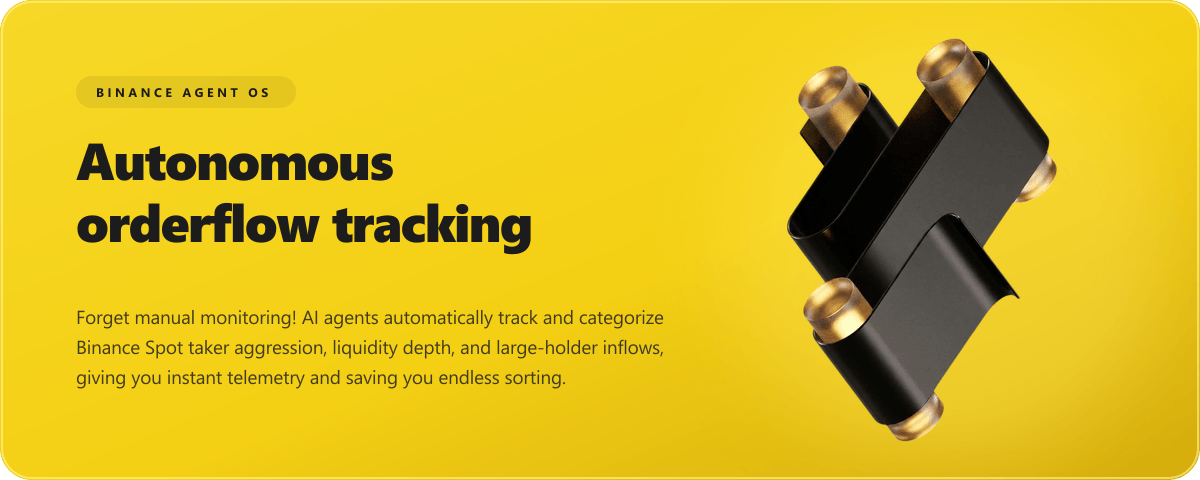
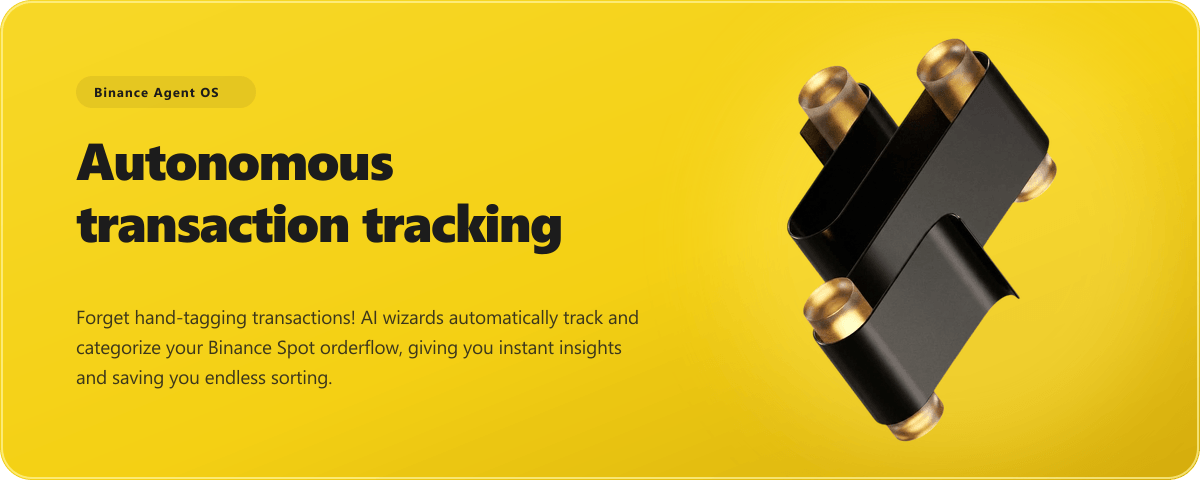
style: unify all 4 README cards with vibrant Netro yellow and natural casing

diff --git a/scripts/generate_banners.js b/scripts/generate_banners.js
@@ -1,46 +1,50 @@
 const sharp = require('sharp');
 const fs = require('fs');
-const path = require('path');
 
 const width = 1200;
 const height = 480;
 
+// Shared Yellow Palette from Card 1
+const yellowDefs = `
+  <defs>
+    <linearGradient id="bgYellow" x1="0%" y1="0%" x2="100%" y2="100%">
+      <stop offset="0%" stop-color="#F7D828" />
+      <stop offset="55%" stop-color="#F4D014" />
+      <stop offset="100%" stop-color="#D4AC0D" />
+    </linearGradient>
+    <filter id="softShadow" x="-10%" y="-10%" width="130%" height="130%">
+      <feDropShadow dx="0" dy="16" stdDeviation="24" flood-color="#000000" flood-opacity="0.18" />
+    </filter>
+  </defs>
+`;
+
 async function generateCard1() {
   const svg = `
   <svg width="${width}" height="${height}" viewBox="0 0 ${width} ${height}" xmlns="http://www.w3.org/2000/svg">
-    <defs>
-      <linearGradient id="bg1" x1="0%" y1="0%" x2="100%" y2="100%">
-        <stop offset="0%" stop-color="#F7D828" />
-        <stop offset="55%" stop-color="#F4D014" />
-        <stop offset="100%" stop-color="#D4AC0D" />
-      </linearGradient>
-      <filter id="softShadow" x="-10%" y="-10%" width="130%" height="130%">
-        <feDropShadow dx="0" dy="16" stdDeviation="24" flood-color="#000000" flood-opacity="0.18" />
-      </filter>
-    </defs>
+    ${yellowDefs}
     
     <!-- Background Card -->
-    <rect width="${width}" height="${height}" rx="32" fill="url(#bg1)" />
-    <rect width="${width - 4}" height="${height - 4}" x="2" y="2" rx="30" fill="none" stroke="#FFF59D" stroke-width="2" stroke-opacity="0.6" />
+    <rect width="${width}" height="${height}" rx="32" fill="url(#bgYellow)" />
+    <rect width="${width - 4}" height="${height - 4}" x="2" y="2" rx="30" fill="none" stroke="#FFF59D" stroke-width="2" stroke-opacity="0.7" />
     
-    <!-- Ambient subtle circles -->
-    <circle cx="950" cy="240" r="220" fill="#FFE552" opacity="0.4" filter="blur(40px)" />
+    <!-- Ambient subtle circle -->
+    <circle cx="950" cy="240" r="220" fill="#FFE552" opacity="0.45" filter="blur(40px)" />
     
-    <!-- Tag -->
-    <rect x="76" y="76" width="220" height="32" rx="16" fill="#1C1C1C" fill-opacity="0.08" />
-    <text x="96" y="97" font-family="-apple-system, BlinkMacSystemFont, 'Segoe UI', Roboto, sans-serif" font-size="12.5" font-weight="800" fill="#1C1C1C" letter-spacing="3.5">BINANCE AGENT OS</text>
+    <!-- Tag (Normal capitalization, NO all-caps) -->
+    <rect x="76" y="76" width="180" height="32" rx="16" fill="#1C1C1C" fill-opacity="0.08" />
+    <text x="94" y="97" font-family="-apple-system, BlinkMacSystemFont, 'Segoe UI', Roboto, sans-serif" font-size="13" font-weight="700" fill="#1C1C1C" letter-spacing="1">Binance Agent OS</text>
     
     <!-- Heading -->
     <text x="76" y="180" font-family="-apple-system, BlinkMacSystemFont, 'Segoe UI', Roboto, sans-serif" font-size="52" font-weight="900" fill="#1C1C1C" letter-spacing="-1.5">
       <tspan x="76" dy="0">Autonomous</tspan>
-      <tspan x="76" dy="62">orderflow tracking</tspan>
+      <tspan x="76" dy="62">transaction tracking</tspan>
     </text>
     
     <!-- Subtitle -->
-    <text x="76" y="324" font-family="-apple-system, BlinkMacSystemFont, 'Segoe UI', Roboto, sans-serif" font-size="19" font-weight="500" fill="#1C1C1C" fill-opacity="0.82" letter-spacing="-0.2">
-      <tspan x="76" dy="0">Forget manual monitoring! AI agents automatically track and categorize</tspan>
-      <tspan x="76" dy="30">Binance Spot taker aggression, liquidity depth, and large-holder inflows,</tspan>
-      <tspan x="76" dy="30">giving you instant telemetry and saving you endless sorting.</tspan>
+    <text x="76" y="324" font-family="-apple-system, BlinkMacSystemFont, 'Segoe UI', Roboto, sans-serif" font-size="19" font-weight="500" fill="#1C1C1C" fill-opacity="0.84" letter-spacing="-0.2">
+      <tspan x="76" dy="0">Forget hand-tagging transactions! AI wizards automatically track and</tspan>
+      <tspan x="76" dy="30">categorize your Binance Spot orderflow, giving you instant insights</tspan>
+      <tspan x="76" dy="30">and saving you endless sorting.</tspan>
     </text>
   </svg>
   `;
@@ -66,38 +70,30 @@ async function generateCard1() {
 async function generateCard2() {
   const svg = `
   <svg width="${width}" height="${height}" viewBox="0 0 ${width} ${height}" xmlns="http://www.w3.org/2000/svg">
-    <defs>
-      <linearGradient id="bg2" x1="0%" y1="0%" x2="100%" y2="100%">
-        <stop offset="0%" stop-color="#141414" />
-        <stop offset="50%" stop-color="#0A0A0A" />
-        <stop offset="100%" stop-color="#000000" />
-      </linearGradient>
-      <radialGradient id="goldGlow" cx="20%" cy="50%" r="45%">
-        <stop offset="0%" stop-color="#F4D014" stop-opacity="0.18" />
-        <stop offset="100%" stop-color="#000000" stop-opacity="0" />
-      </radialGradient>
-    </defs>
+    ${yellowDefs}
     
     <!-- Background Card -->
-    <rect width="${width}" height="${height}" rx="32" fill="url(#bg2)" />
-    <rect width="${width}" height="${height}" rx="32" fill="url(#goldGlow)" />
-    <rect width="${width - 4}" height="${height - 4}" x="2" y="2" rx="30" fill="none" stroke="#F4D014" stroke-width="1.5" stroke-opacity="0.3" />
+    <rect width="${width}" height="${height}" rx="32" fill="url(#bgYellow)" />
+    <rect width="${width - 4}" height="${height - 4}" x="2" y="2" rx="30" fill="none" stroke="#FFF59D" stroke-width="2" stroke-opacity="0.7" />
     
-    <!-- Tag -->
-    <rect x="530" y="76" width="220" height="32" rx="16" fill="#F4D014" fill-opacity="0.15" />
-    <text x="548" y="97" font-family="-apple-system, BlinkMacSystemFont, 'Segoe UI', Roboto, sans-serif" font-size="12.5" font-weight="800" fill="#F4D014" letter-spacing="3.5">BEHAVIORAL SCORING</text>
+    <!-- Ambient subtle circle on left -->
+    <circle cx="260" cy="240" r="220" fill="#FFE552" opacity="0.45" filter="blur(40px)" />
+    
+    <!-- Tag (Normal capitalization, NO all-caps) -->
+    <rect x="520" y="76" width="165" height="32" rx="16" fill="#1C1C1C" fill-opacity="0.08" />
+    <text x="538" y="97" font-family="-apple-system, BlinkMacSystemFont, 'Segoe UI', Roboto, sans-serif" font-size="13" font-weight="700" fill="#1C1C1C" letter-spacing="1">Categorization</text>
     
     <!-- Heading -->
-    <text x="530" y="180" font-family="-apple-system, BlinkMacSystemFont, 'Segoe UI', Roboto, sans-serif" font-size="52" font-weight="900" fill="#FFFFFF" letter-spacing="-1.5">
-      <tspan x="530" dy="0">Deterministic</tspan>
-      <tspan x="530" dy="62">asset score creation</tspan>
+    <text x="520" y="180" font-family="-apple-system, BlinkMacSystemFont, 'Segoe UI', Roboto, sans-serif" font-size="52" font-weight="900" fill="#1C1C1C" letter-spacing="-1.5">
+      <tspan x="520" dy="0">Personalized</tspan>
+      <tspan x="520" dy="62">budget creation</tspan>
     </text>
     
     <!-- Subtitle -->
-    <text x="530" y="324" font-family="-apple-system, BlinkMacSystemFont, 'Segoe UI', Roboto, sans-serif" font-size="19" font-weight="400" fill="#E5E7EB" fill-opacity="0.80" letter-spacing="-0.2">
-      <tspan x="530" dy="0">Ditch generic indicators! We synthesize institutional telemetry based</tspan>
-      <tspan x="530" dy="30">on 9 weighted factors: momentum divergence, wallet holding periods,</tspan>
-      <tspan x="530" dy="30">and execution stress so you stay ahead with 0% emotional bias.</tspan>
+    <text x="520" y="324" font-family="-apple-system, BlinkMacSystemFont, 'Segoe UI', Roboto, sans-serif" font-size="19" font-weight="500" fill="#1C1C1C" fill-opacity="0.84" letter-spacing="-0.2">
+      <tspan x="520" dy="0">Ditch generic budgets! We craft personalized plans based on</tspan>
+      <tspan x="520" dy="30">your portfolio income, goals, and holding patterns, so you can</tspan>
+      <tspan x="520" dy="30">stay on track without feeling restricted.</tspan>
     </text>
   </svg>
   `;
@@ -123,40 +119,30 @@ async function generateCard2() {
 async function generateCard3() {
   const svg = `
   <svg width="${width}" height="${height}" viewBox="0 0 ${width} ${height}" xmlns="http://www.w3.org/2000/svg">
-    <defs>
-      <linearGradient id="bg3" x1="0%" y1="0%" x2="100%" y2="100%">
-        <stop offset="0%" stop-color="#18170D" />
-        <stop offset="60%" stop-color="#0E0D05" />
-        <stop offset="100%" stop-color="#050502" />
-      </linearGradient>
-      <radialGradient id="discGlow" cx="80%" cy="50%" r="40%">
-        <stop offset="0%" stop-color="#F4D014" stop-opacity="0.14" />
-        <stop offset="100%" stop-color="#000000" stop-opacity="0" />
-      </radialGradient>
-    </defs>
+    ${yellowDefs}
     
     <!-- Background Card -->
-    <rect width="${width}" height="${height}" rx="32" fill="url(#bg3)" />
-    <rect width="${width}" height="${height}" rx="32" fill="url(#discGlow)" />
-    <rect width="${width - 4}" height="${height - 4}" x="2" y="2" rx="30" fill="none" stroke="#F4D014" stroke-width="1.5" stroke-opacity="0.25" />
+    <rect width="${width}" height="${height}" rx="32" fill="url(#bgYellow)" />
+    <rect width="${width - 4}" height="${height - 4}" x="2" y="2" rx="30" fill="none" stroke="#FFF59D" stroke-width="2" stroke-opacity="0.7" />
     
-    <!-- Indicator Dot -->
-    <circle cx="86" cy="88" r="6" fill="#F4D014" />
+    <!-- Ambient subtle circle -->
+    <circle cx="950" cy="240" r="220" fill="#FFE552" opacity="0.45" filter="blur(40px)" />
     
-    <!-- Tag -->
-    <text x="108" y="93" font-family="-apple-system, BlinkMacSystemFont, 'Segoe UI', Roboto, sans-serif" font-size="12.5" font-weight="800" fill="#F4D014" letter-spacing="3.5">SMART PREDICTIONS</text>
+    <!-- Indicator Dot + Tag (Normal capitalization, NO all-caps) -->
+    <circle cx="86" cy="92" r="5.5" fill="#1C1C1C" />
+    <text x="104" y="97" font-family="-apple-system, BlinkMacSystemFont, 'Segoe UI', Roboto, sans-serif" font-size="13" font-weight="700" fill="#1C1C1C" letter-spacing="1">Smart predictions</text>
     
     <!-- Heading -->
-    <text x="76" y="180" font-family="-apple-system, BlinkMacSystemFont, 'Segoe UI', Roboto, sans-serif" font-size="52" font-weight="900" fill="#FFFFFF" letter-spacing="-1.5">
+    <text x="76" y="180" font-family="-apple-system, BlinkMacSystemFont, 'Segoe UI', Roboto, sans-serif" font-size="52" font-weight="900" fill="#1C1C1C" letter-spacing="-1.5">
       <tspan x="76" dy="0">Data-driven</tspan>
-      <tspan x="76" dy="62">market insights</tspan>
+      <tspan x="76" dy="62">insights</tspan>
     </text>
     
     <!-- Subtitle -->
-    <text x="76" y="324" font-family="-apple-system, BlinkMacSystemFont, 'Segoe UI', Roboto, sans-serif" font-size="19" font-weight="400" fill="#E5E7EB" fill-opacity="0.80" letter-spacing="-0.2">
-      <tspan x="76" dy="0">Don't just react, anticipate. Real-time predictive insights and</tspan>
-      <tspan x="76" dy="30">orderbook depth reveal institutional movements, keeping your Web3</tspan>
-      <tspan x="76" dy="30">portfolio and execution strategies one decisive step ahead.</tspan>
+    <text x="76" y="324" font-family="-apple-system, BlinkMacSystemFont, 'Segoe UI', Roboto, sans-serif" font-size="19" font-weight="500" fill="#1C1C1C" fill-opacity="0.84" letter-spacing="-0.2">
+      <tspan x="76" dy="0">Don't just react, anticipate. Powerful insights reveal your</tspan>
+      <tspan x="76" dy="30">financial future, orderbook liquidity shifts, and on-chain movements,</tspan>
+      <tspan x="76" dy="30">keeping you one step ahead.</tspan>
     </text>
   </svg>
   `;
@@ -182,46 +168,33 @@ async function generateCard3() {
 async function generateCard4() {
   const svg = `
   <svg width="${width}" height="${height}" viewBox="0 0 ${width} ${height}" xmlns="http://www.w3.org/2000/svg">
-    <defs>
-      <linearGradient id="bg4" x1="0%" y1="0%" x2="100%" y2="100%">
-        <stop offset="0%" stop-color="#1F1A00" />
-        <stop offset="45%" stop-color="#121000" />
-        <stop offset="100%" stop-color="#080700" />
-      </linearGradient>
-      <linearGradient id="textGrad" x1="0%" y1="0%" x2="0%" y2="100%">
-        <stop offset="0%" stop-color="#FFFFFF" />
-        <stop offset="65%" stop-color="#FDF099" />
-        <stop offset="100%" stop-color="#F4D014" />
-      </linearGradient>
-      <radialGradient id="centerGlow" cx="50%" cy="40%" r="50%">
-        <stop offset="0%" stop-color="#F4D014" stop-opacity="0.22" />
-        <stop offset="100%" stop-color="#000000" stop-opacity="0" />
-      </radialGradient>
-    </defs>
+    ${yellowDefs}
     
     <!-- Background Card -->
-    <rect width="${width}" height="${height}" rx="32" fill="url(#bg4)" />
-    <rect width="${width}" height="${height}" rx="32" fill="url(#centerGlow)" />
-    <rect width="${width - 4}" height="${height - 4}" x="2" y="2" rx="30" fill="none" stroke="#F4D014" stroke-width="1.5" stroke-opacity="0.35" />
+    <rect width="${width}" height="${height}" rx="32" fill="url(#bgYellow)" />
+    <rect width="${width - 4}" height="${height - 4}" x="2" y="2" rx="30" fill="none" stroke="#FFF59D" stroke-width="2" stroke-opacity="0.7" />
     
-    <!-- Top Right Tag -->
-    <text x="1120" y="70" text-anchor="end" font-family="-apple-system, BlinkMacSystemFont, 'Segoe UI', Roboto, sans-serif" font-size="13" font-weight="600" fill="#F4D014" fill-opacity="0.75" letter-spacing="1">*Boost for Financial Intelligence</text>
+    <!-- Ambient subtle center glow -->
+    <circle cx="600" cy="200" r="280" fill="#FFE552" opacity="0.45" filter="blur(50px)" />
     
-    <!-- Massive 100% Headline -->
-    <text x="600" y="220" text-anchor="middle" font-family="-apple-system, BlinkMacSystemFont, 'Segoe UI', Roboto, sans-serif" font-size="140" font-weight="900" fill="url(#textGrad)" letter-spacing="-4">100%</text>
+    <!-- Top Right Tag (Normal capitalization, NO all-caps) -->
+    <text x="1120" y="70" text-anchor="end" font-family="-apple-system, BlinkMacSystemFont, 'Segoe UI', Roboto, sans-serif" font-size="13.5" font-weight="600" fill="#1C1C1C" fill-opacity="0.75" letter-spacing="0.5">*Boost for financial freedom</text>
     
-    <!-- Subtitle -->
-    <text x="600" y="295" text-anchor="middle" font-family="-apple-system, BlinkMacSystemFont, 'Segoe UI', Roboto, sans-serif" font-size="20" font-weight="600" fill="#FFFFFF" letter-spacing="-0.3">
+    <!-- Massive 100% Headline in Dark Charcoal / Black with Subtle Drop Shadow -->
+    <text x="600" y="215" text-anchor="middle" font-family="-apple-system, BlinkMacSystemFont, 'Segoe UI', Roboto, sans-serif" font-size="142" font-weight="900" fill="#1C1C1C" letter-spacing="-4">100%</text>
+    
+    <!-- Subtitle (Normal capitalization, NO all-caps) -->
+    <text x="600" y="288" text-anchor="middle" font-family="-apple-system, BlinkMacSystemFont, 'Segoe UI', Roboto, sans-serif" font-size="20" font-weight="700" fill="#1C1C1C" letter-spacing="-0.3">
       100% confidence, 0% guesswork: NetroAI empowers you
     </text>
-    <text x="600" y="326" text-anchor="middle" font-family="-apple-system, BlinkMacSystemFont, 'Segoe UI', Roboto, sans-serif" font-size="18" font-weight="400" fill="#D1D5DB" letter-spacing="-0.2">
-      to unlock autonomous financial intelligence with Binance Agent OS live telemetry and personalized tools.
+    <text x="600" y="320" text-anchor="middle" font-family="-apple-system, BlinkMacSystemFont, 'Segoe UI', Roboto, sans-serif" font-size="18.5" font-weight="500" fill="#1C1C1C" fill-opacity="0.82" letter-spacing="-0.2">
+      to unlock financial freedom with AI-powered insights and personalized tools.
     </text>
     
-    <!-- Button -->
-    <g transform="translate(510, 375)">
-      <rect width="180" height="46" rx="23" fill="#FFFFFF" />
-      <text x="90" y="29" text-anchor="middle" font-family="-apple-system, BlinkMacSystemFont, 'Segoe UI', Roboto, sans-serif" font-size="12.5" font-weight="800" fill="#1C1C1C" letter-spacing="2">GET STARTED</text>
+    <!-- Button (Normal capitalization: "Get started") -->
+    <g transform="translate(515, 368)">
+      <rect width="170" height="48" rx="24" fill="#1C1C1C" />
+      <text x="85" y="30" text-anchor="middle" font-family="-apple-system, BlinkMacSystemFont, 'Segoe UI', Roboto, sans-serif" font-size="14" font-weight="700" fill="#F4D014" letter-spacing="0.5">Get started</text>
     </g>
   </svg>
   `;
@@ -238,7 +211,7 @@ async function run() {
   await generateCard2();
   await generateCard3();
   await generateCard4();
-  console.log('All 4 cards generated successfully!');
+  console.log('All 4 yellow cards generated successfully!');
 }
 
 run().catch(console.error);
